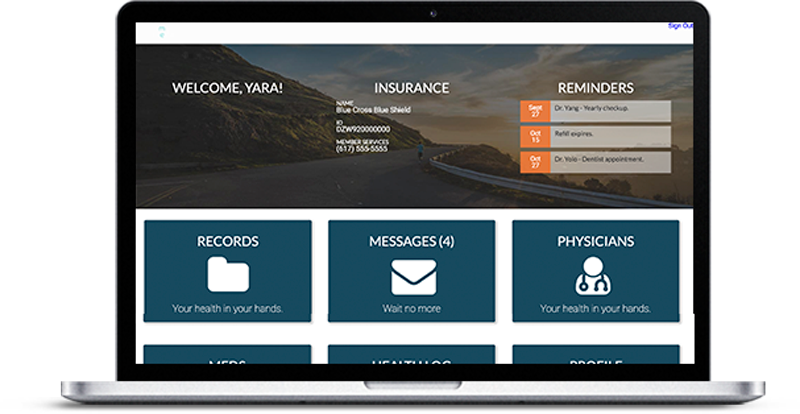
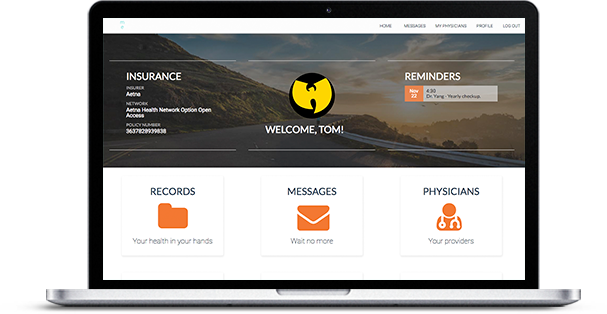
.

diff --git a/client/src/auth-shared/components/welcome.jsx b/client/src/auth-shared/components/welcome.jsx
@@ -2,11 +2,11 @@ import React, { Component } from 'react';
 import FlatButton from 'material-ui/FlatButton';
 
 const buttonStyles = {
-  hoverColor: "rgba(255,255,255,1)",
-  backgroundColor:"rgba(255,255,255,.6)",
-  labelStyle: {color:"#fff"},
-  rippleColor: '#333',
-  styles: { height: '50px', borderRadius:'1em'}
+  hoverColor: "rgba(242,108,44, 0.7)",
+  backgroundColor:"rgba(242,108,44,1)",
+  labelStyle: {color:"white"},
+  rippleColor: '#white',
+  styles: { height: '50px', borderRadius:'5px'}
 }
 
 const Welcome = () => {
@@ -27,7 +27,8 @@ const Welcome = () => {
                          <li>Choose which providers you share your information with</li>
                          <li>Manage all of your medical billing in one place</li>
                          </ul>
-                         <FlatButton label="Learn More" hoverColor={buttonStyles.hoverColor} style={buttonStyles.styles} backgroundColor={buttonStyles.backgroundColor} />
+                         <FlatButton label="For Patients" hoverColor={buttonStyles.hoverColor} style={buttonStyles.styles} backgroundColor={buttonStyles.backgroundColor} labelStyle={buttonStyles.labelStyle} />
+                         <FlatButton label="For Providers" hoverColor={buttonStyles.hoverColor} style={buttonStyles.styles} backgroundColor={buttonStyles.backgroundColor} labelStyle={buttonStyles.labelStyle} />
                      </div>
                 </div>
                 
@@ -77,25 +78,39 @@ const Welcome = () => {
                 </div>
             </section>
                     
-            <section>
+            <section className="teamSec">
+                <div className="introPhotos introTeam">
+                    <h2>Your Team</h2>
+                </div>
                 <div className="wrapper">
-                    <ul>
+                    <ul className="team">
                         <li>
-                            Neekon
+                            <img src="../../styles/background_images/neekon.png" alt=""/>
+                            <h4>Neekon Etemad</h4>
+                            <h5>Software Engineer</h5>
+                            <p>Lorem ipsum desc goes here. Forthecoming ipsum dipsum.</p>
                         </li>
                         <li>
-                            Kent
+                            <img src="../../styles/background_images/kent.png" alt=""/>
+                            <h4>Kent Moreland</h4>
+                            <h5>Software Engineer</h5>
+                            <p>Lorem ipsum desc goes here. Forthecoming ipsum dipsum.</p>
                         </li>
                         <li>
-                            Yara
+                            <img src="../../styles/background_images/yara.png" alt=""/>
+                            <h4>Yara Tercero-Parker</h4>
+                            <h5>Software Engineer</h5>
+                            <p>Lorem ipsum desc goes here. Forthecoming ipsum dipsum.</p>
                         </li>
                         <li>
-                            Mike
+                            <img src="../../styles/background_images/MichaelO.png" alt=""/>
+                            <h4>Michael Olorunnisola</h4>
+                            <h5>Software Engineer</h5>
+                            <p>Lorem ipsum desc goes here. Forthecoming ipsum dipsum.</p>
                         </li>
                     </ul>
                  </div>
             </section>
-            
         </main>
     );
 };

diff --git a/client/src/patients/components/messages-dash/messages.jsx b/client/src/patients/components/messages-dash/messages.jsx
@@ -21,7 +21,7 @@ export default class Messages extends Component {
     })
      socket.on('new bc message', function(msg) {
       console.log("NEW MESSAGE INCOMING", msg, user, chosenid);
-      that.handleSave(msg);
+      that.handleSave(msg)
     })
     socket.on('new channel', function(channel) {
       console.log("NEW CHANNEL");
@@ -45,7 +45,9 @@ export default class Messages extends Component {
       return (
         <div>
           <div id="chatBoard" style={ {minHeight: height} }>
-            <div></div>
+            <div>
+              <h4>{contact.first} {contact.last}</h4>
+            </div>
             <div>
               {messages.map( message => {
                 console.log("$$MESSAGES", message, user);
@@ -53,13 +55,17 @@ export default class Messages extends Component {
                   return message.map( item => {
                     if(item.sender_id == user || item.user == user){
                       return <div className="messagesUser">
-                                <h5> { localStorage.getItem('first') } { localStorage.getItem('last') }: </h5>
-                                <p> { item.direct_message } </p>
+                                <div>
+                                  <img src="../../styles/background_images/tailBlue.png" alt=""/>
+                                 <p> { item.direct_message } </p>
+                                </div>
                               </div>
                     }else{
                       return <div className="messagesIncoming">
-                                <h5> { localStorage.getItem('first') } { localStorage.getItem('last') }: </h5>
-                                <p> { item.direct_message } </p>
+                                <div>
+                                  <img src="../../styles/background_images/tail.png" alt=""/>
+                                  <p> { item.direct_message } </p>
+                                </div>
                               </div>
                     }
                       
@@ -67,14 +73,18 @@ export default class Messages extends Component {
                 }else{
                   if(message.user == user){
                     return <div className="messagesUser">
-                                <h5> { message.first } { message.last }: </h5>
+                              <div>
+                                <img src="../../styles/background_images/tailBlue.png" alt=""/>
                                 <p> { message.direct_message } </p>
                               </div>
+                          </div>
                   }else{
-                    return <div>
-                      <h5> { contact.first } { contact.last }: </h5>
-                      <p> { message.direct_message } </p>
-                    </div>
+                    return <div className="messagesIncoming">
+                            <div>
+                              <img src="../../styles/background_images/tail.png" alt=""/>
+                              <p> { message.direct_message } </p>
+                            </div>
+                          </div>
                   }
                 }
                 

diff --git a/client/styles/styles.css b/client/styles/styles.css
@@ -129,7 +129,7 @@ input[type='radio']{
 .dashboardRows{
     min-height: 10px;
 }
-.dashboardRows:after, .reminders:after, .profileDash:after, .chat:after, .messageContacts > ul:after, .contactItem:after, header:after, header ul:after, main > section > ul:after, .welcomeHeader:after, section:after{
+.dashboardRows:after, .reminders:after, .profileDash:after, .chat:after, .messageContacts > ul:after, .contactItem:after, header:after, header ul:after, main > section > ul:after, .welcomeHeader:after, section:after, .messagesUser:after, .messagesIncoming:after, .team:after{
     clear: both;
     content: '';
     display: block;
@@ -192,7 +192,6 @@ input[type='radio']{
     height: 150px;
     border-radius: 50%;
     display: block;
-    border: 1px solid white;
     margin: 20px auto ;
 }
 
@@ -336,9 +335,18 @@ main{
 }
 #chatBoard > div:first-of-type, .messageContacts > div:first-of-type{
     height: 50px;
-    padding: 30px;
+    padding: 14px;
     background-color: rgb(242, 108, 44);
     color: white;
+}
+#chatBoard h4{
+    text-align: center;
+    font-size: 24px;
+    font-family: 'Lato', sans-serif;
+    font-weight: 600;
+    color: white;
+    text-transform: uppercase;
+    margin: 0;
 }
 #chatBoard {
     position: relative;
@@ -438,7 +446,6 @@ main > .wrapper > section{
 }
 
 main > section:nth-of-type(odd){
-    background-color: #203248;
 }
 
 .wrapper{
@@ -478,7 +485,10 @@ main > section:nth-of-type(odd){
   background-size: cover;
   height: 250px;
 }
-
+.introTeam{
+    background-image: none;
+    height: 100px;
+}
 .introProviders {
   background-image:  url('./background_images/providers.jpg');
   background-position: center -190px;
@@ -1026,4 +1036,70 @@ text-align:center;
   color:#333;
   margin: 0 auto;
   text-align:left;  
+}
+.messagesIncoming > div, .messagesUser > div{
+    background: #ddd;
+    width: 30%;
+    border-radius: 10px;
+    padding: 20px;
+    margin: 10px 0 10px 20px;
+    position: relative;
+}
+.messagesIncoming img{
+    position: absolute;
+    left: -19px;
+    bottom: -8px;
+}
+.messagesUser img{
+    position: absolute;
+    bottom:  -8px;
+    right: -19px;
+}
+.messagesUser > div {
+    margin: 10px 20px 10px 0;
+    background: rgb(46, 211, 205);
+    float: right;
+}
+main >section .team li{
+    float: left;
+    width: 25%;
+    border: none;
+    margin: 0;
+    padding: 0;
+}
+
+.team img{
+    width: 50%;
+    display: block;
+    border-radius: 50%;
+    margin: 0 auto;
+    border: 3px solid white;
+   
+}
+.teamSec{
+    background-color: #203248;
+    padding: 0px 0 40px;
+    color: white;
+     text-align: center;
+}
+
+.teamSec h2{
+    color: #333;
+}
+.team h4{
+    font-size: 22px;
+    text-align: center;
+    font-weight: normal;
+}
+.team h5{
+    text-transform: uppercase;
+    font-size: 15px;
+    font-weight: 300;
+}
+.team p{
+    font-size: 18px;
+    font-weight: lighter;
+    text-align: center;
+    line-height: 140%;
+    margin: 10px 0;
 }

diff --git a/server/models/messages-helpers.js b/server/models/messages-helpers.js
@@ -11,14 +11,8 @@ module.exports = {
     // Get Request → /api/messages/:physid/:patid  [limit 5]
     console.log(params.userid, params.senderType, params.rid, params.receiverType);
     let data = [params.userid, params.senderType, params.rid, params.receiverType];
-    const queryString = 'SELECT p.id, p.first, p.last, p.email, \
-      p.primary_phone_number, p.photo_path, py.id, py.first, \
-      py.last, py.email, py.phone_number, py.photo_path, m.id, \
-      m.direct_message, m.date, m.sender_id, m.receiver_id, \
-      m.sender_type \
-      FROM messages m \
-      JOIN patient p ON p.id = m.sender_id \
-      JOIN physician py ON py.id = m.receiver_id \
+    const queryString = 'SELECT m.id, m.direct_message, m.date, m.sender_id, m.receiver_id, \
+      m.sender_type FROM messages m \
       WHERE (sender_id="'+params.userid+'" AND receiver_id="'+params.rid+'" AND sender_type="'+params.senderType+'" \
       AND receiver_type="'+params.receiverType+'") OR \
       (sender_id="'+params.rid+'" AND receiver_id="'+params.userid+'" AND sender_type="'+params.receiverType+'" \
@@ -70,6 +64,7 @@ module.exports = {
   // added
   post_message: (params, cb) => {
     console.log("PARAMS", params)
+
     let data = [params.sender_type, params.receiver_type,
       params.direct_message, params.sender_id, params.receiver_id];
     const queryString = 'INSERT INTO messages(sender_type, receiver_type, \

diff --git a/client/src/auth-shared/components/unauth-header.jsx b/client/src/auth-shared/components/unauth-header.jsx
@@ -6,11 +6,11 @@ import SignUp from './signup-component.js';
 import SignIn from './signin-component.js';
 
 const buttonStyles = {
-  hoverColor: "#203248",
+  hoverColor: "#eee",
   backgroundColor:null,
-  labelStyle: {color:"#999"},
-  rippleColor: '#333',
-  styles: { height: '50px',borderRadius: '0 !important'}
+  labelStyle: {color:"#203248", fontWeight: 300},
+  rippleColor: '#ccc',
+  styles: { height: '50px'}
 }
 
 export default class UnauthHeader extends Component {

diff --git a/client/src/patients/actions/messages.js b/client/src/patients/actions/messages.js
@@ -26,7 +26,7 @@ const addMessageFailed = (err) => {
 }
 
 export function newMessage(senderType, receiverType, message, senderid, receiverid) {
-	
+	console.log("NEW MESSAGE POSTING", senderid, receiverid)
   return dispatch => {
     dispatch(addMessageRequest(message))
     return axios.post('/api/messages/newmessage', {sender_type: senderType, receiver_type: receiverType, direct_message: message.direct_message, sender_id: senderid, receiver_id: receiverid})

diff --git a/client/src/patients/components/main-dash/dashboard-main.jsx b/client/src/patients/components/main-dash/dashboard-main.jsx
@@ -9,7 +9,7 @@ const DashboardMain = () => {
            
             <DashboardInsurance />
             <div className="mainDashWelcome">
-                <img src="https://pbs.twimg.com/profile_images/446566229210181632/2IeTff-V.jpeg" alt=""/>
+                <img src="../../../styles/background_images/wu.jpg" alt=""/>
                 <h3>{`Welcome, ${localStorage.getItem('first')}!`}</h3>
             </div>
             <DashboardReminders />

diff --git a/client/src/patients/containers/messages/chat-container.js b/client/src/patients/containers/messages/chat-container.js
@@ -38,7 +38,7 @@ class ChatContainer extends Component {
 			dispatch(contacts.fetchMyPatients(this.state.uid))
 		}
 
-		this.setState({windowHeight: `${window.innerHeight - 50 }px`});
+		this.setState({windowHeight: window.innerHeight - 50 });
 	}
 
 	userSelected (userid, chosenid, receiverType, senderType, contact){

diff --git a/client/src/patients/components/messages-dash/message-input.jsx b/client/src/patients/components/messages-dash/message-input.jsx
@@ -13,7 +13,6 @@ export default class MessageInput extends Component {
   handleSubmit(event) {
     const { user, socket, activeChannel} = this.props;
     const text = event.target.value.trim();
-    console.log("llllll", text)
     if (event.which === 13) {
       event.preventDefault();
       var newMessage = {
